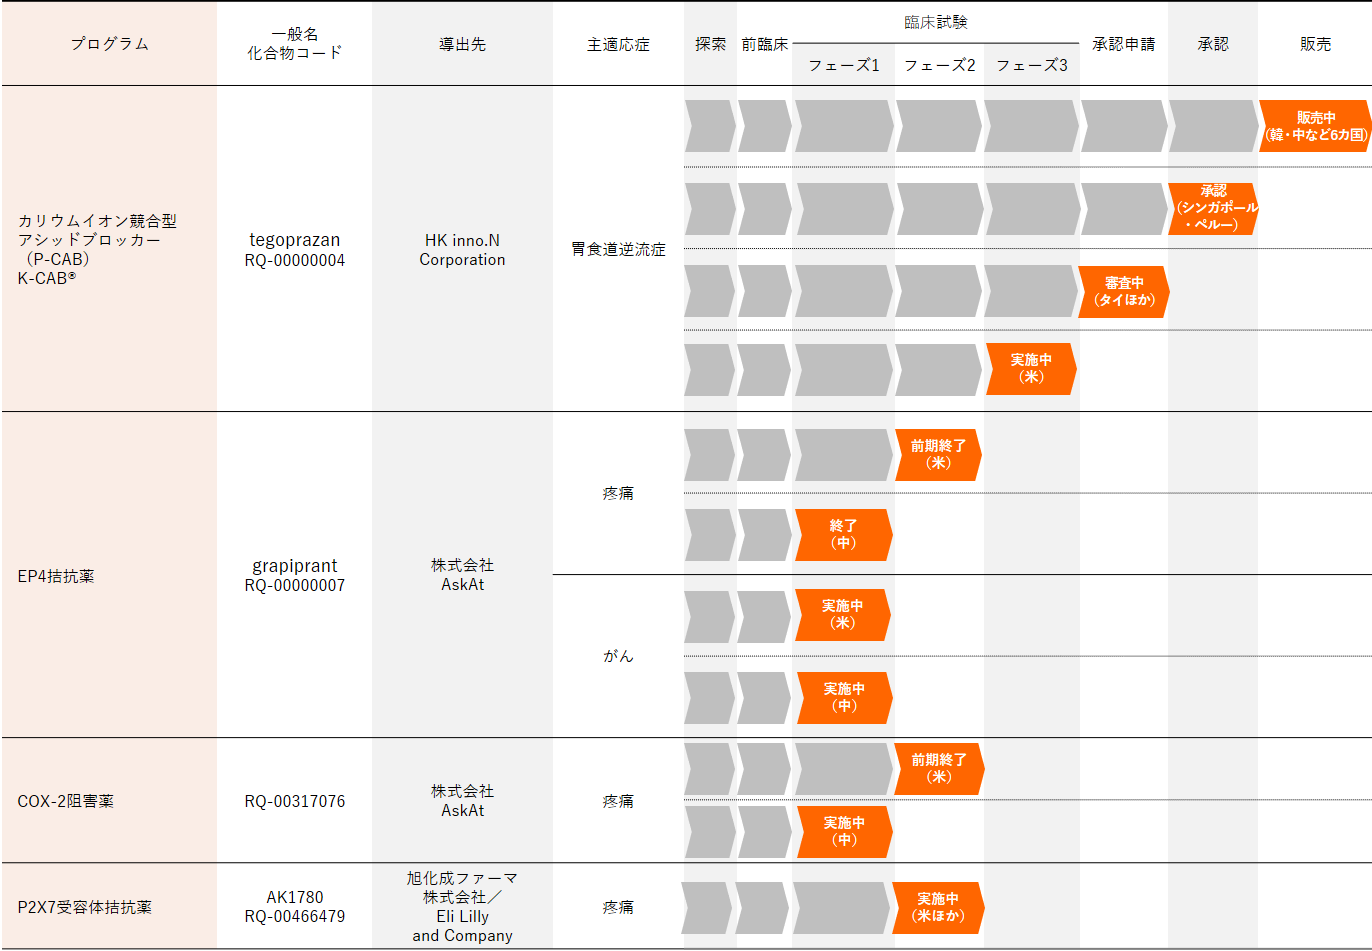
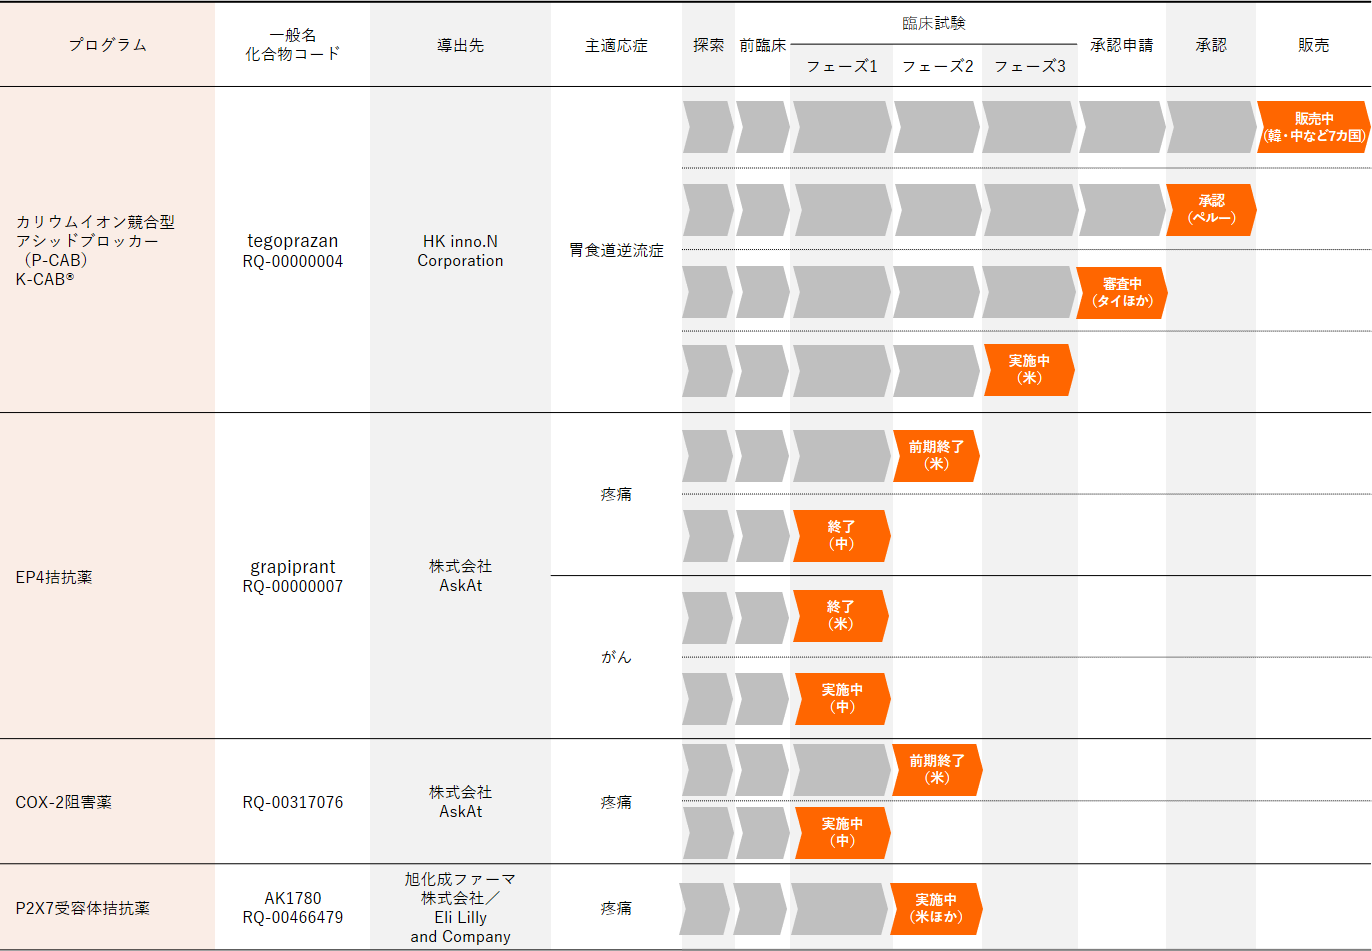
Update

diff --git a/webpage/product/derived-program.html b/webpage/product/derived-program.html
@@ -10,9 +10,9 @@
 <meta name="viewport" content="width=device-width" />
 <title>導出済みプログラム | 開発情報 | ラクオリア創薬株式会社</title>
                     <link rel="stylesheet" type="text/css" href="/resources/templating-kit/themes/pop/css/default/base.2023-04-03-17-02-28-756.cache.css" media="all" />
-                    <link rel="stylesheet" type="text/css" href="/resources/templating-kit/themes/pop/css/default/layout.2023-03-30-10-06-31-531.cache.css" media="all" />
-                    <link rel="stylesheet" type="text/css" href="/resources/templating-kit/themes/pop/css/default/styles.2023-05-15-12-17-09-464.cache.css" media="all" />
-                    <link rel="stylesheet" type="text/css" href="/resources/templating-kit/themes/pop/css/common/edited.2022-10-28-15-09-51-684.cache.css" media="all" />
+                    <link rel="stylesheet" type="text/css" href="/resources/templating-kit/themes/pop/css/default/layout.2023-09-24-12-33-03-321.cache.css" media="all" />
+                    <link rel="stylesheet" type="text/css" href="/resources/templating-kit/themes/pop/css/default/styles.2023-08-30-09-01-02-377.cache.css" media="all" />
+                    <link rel="stylesheet" type="text/css" href="/resources/templating-kit/themes/pop/css/common/edited.2023-10-01-11-41-37-842.cache.css" media="all" />
 <!--[if ! lte IE 6]><!-->
         <script>
             //global information for the javascripts
@@ -163,7 +163,7 @@
 </div>
 <div class="text-section"  id="text-section-3">
             <div style="">
-                <p style="text-align:right">2023.8.1 現在</p>
+                <p style="text-align:right">2023.10.1 現在</p>
             </div>
 </div>
 <div class="text-section"  id="text-section-4">
@@ -192,7 +192,7 @@
 </div>
 <div class="text-section"  id="text-section-8">
         <div style="">
-            <p style="text-align:right">2023.8.1 現在</p>
+            <p style="text-align:right">2023.10.1 現在</p>
         </div>
 </div>
 <div class="uni-table style1" id="uni-table-1">
@@ -236,8 +236,8 @@
 <p>全世界</p>
                                 </td>
                                 <td class="tbDimmed tbMiddle" style="width:22%"> 
-                    <p>販売中:韓国、中国、フィリピン、モンゴルメキシコ、メキシコ、インドネシア</p>
-<p>承認取得:シンガポール、ペルー</p>
+                    <p>販売中:韓国、中国、フィリピン、モンゴル、メキシコ、インドネシア、シンガポール</p>
+<p>承認取得:ペルー</p>
 <p>審査中/承認申請準備中:タイ、ベトナム、インドを含む26か国</p>
 <p>フェーズ３実施中:米国</p>
                                 </td>
@@ -337,7 +337,7 @@
                     <p>全世界（ヒト）</p>
                                 </td>
                                 <td class="tbDimmed tbMiddle" style="width:22%"> 
-                    <p>フェーズ1b実施中:米国</p>
+                    <p>フェーズ1終了:米国</p>
 <p>フェーズ1実施中:中国</p>
                                 </td>
                                 <td class="tbDimmed tbMiddle" style="display: none;" > 
@@ -555,7 +555,7 @@
                     <p>全世界</p>
                                 </td>
                                 <td class="tbDimmed tbMiddle" style="width:22%"> 
-                    <p>前臨床準備中</p>
+                    <p>前臨床実施中</p>
                                 </td>
                                 <td class="tbDimmed tbMiddle" style="width:16%"> 
                     <p>久光製薬株式会社</p>

diff --git a/webpage/product/product.html b/webpage/product/product.html
@@ -10,9 +10,9 @@
 <meta name="viewport" content="width=device-width" />
 <title>導出準備プログラム | 開発情報 | ラクオリア創薬株式会社</title>
                     <link rel="stylesheet" type="text/css" href="/resources/templating-kit/themes/pop/css/default/base.2023-04-03-17-02-28-756.cache.css" media="all" />
-                    <link rel="stylesheet" type="text/css" href="/resources/templating-kit/themes/pop/css/default/layout.2023-03-30-10-06-31-531.cache.css" media="all" />
-                    <link rel="stylesheet" type="text/css" href="/resources/templating-kit/themes/pop/css/default/styles.2023-05-15-12-17-09-464.cache.css" media="all" />
-                    <link rel="stylesheet" type="text/css" href="/resources/templating-kit/themes/pop/css/common/edited.2022-10-28-15-09-51-684.cache.css" media="all" />
+                    <link rel="stylesheet" type="text/css" href="/resources/templating-kit/themes/pop/css/default/layout.2023-09-24-12-33-03-321.cache.css" media="all" />
+                    <link rel="stylesheet" type="text/css" href="/resources/templating-kit/themes/pop/css/default/styles.2023-08-30-09-01-02-377.cache.css" media="all" />
+                    <link rel="stylesheet" type="text/css" href="/resources/templating-kit/themes/pop/css/common/edited.2023-10-01-11-41-37-842.cache.css" media="all" />
 <!--[if ! lte IE 6]><!-->
         <script>
             //global information for the javascripts
@@ -163,7 +163,7 @@
 </div>
 <div class="text-section"  id="text-section-3">
             <div style="">
-                <p style="text-align:right">2023.8.1 現在</p>
+                <p style="text-align:right">2023.10.1 現在</p>
             </div>
 </div>
 <div class="text-section"  id="text-section-4">
@@ -301,8 +301,8 @@
 <p>フェーズ３実施中：米国（導出先）</p>
                                 </td>
                                 <td class="tbDimmed tbCenter tbMiddle" style="width:25%"> 
-                    <p>販売中：韓国、中国、フィリピン、モンゴル、メキシコ、インドネシア</p>
-<p>承認取得：シンガポール、メキシコ、ペルー</p>
+                    <p>販売中：韓国、中国、フィリピン、モンゴル、メキシコ、インドネシア、シンガポール</p>
+<p>承認取得：ペルー</p>
 <p>審査中／承認申請準備中：タイ、ベトナム、インドを含む26か国</p>
                                 </td>
                         </tr>
